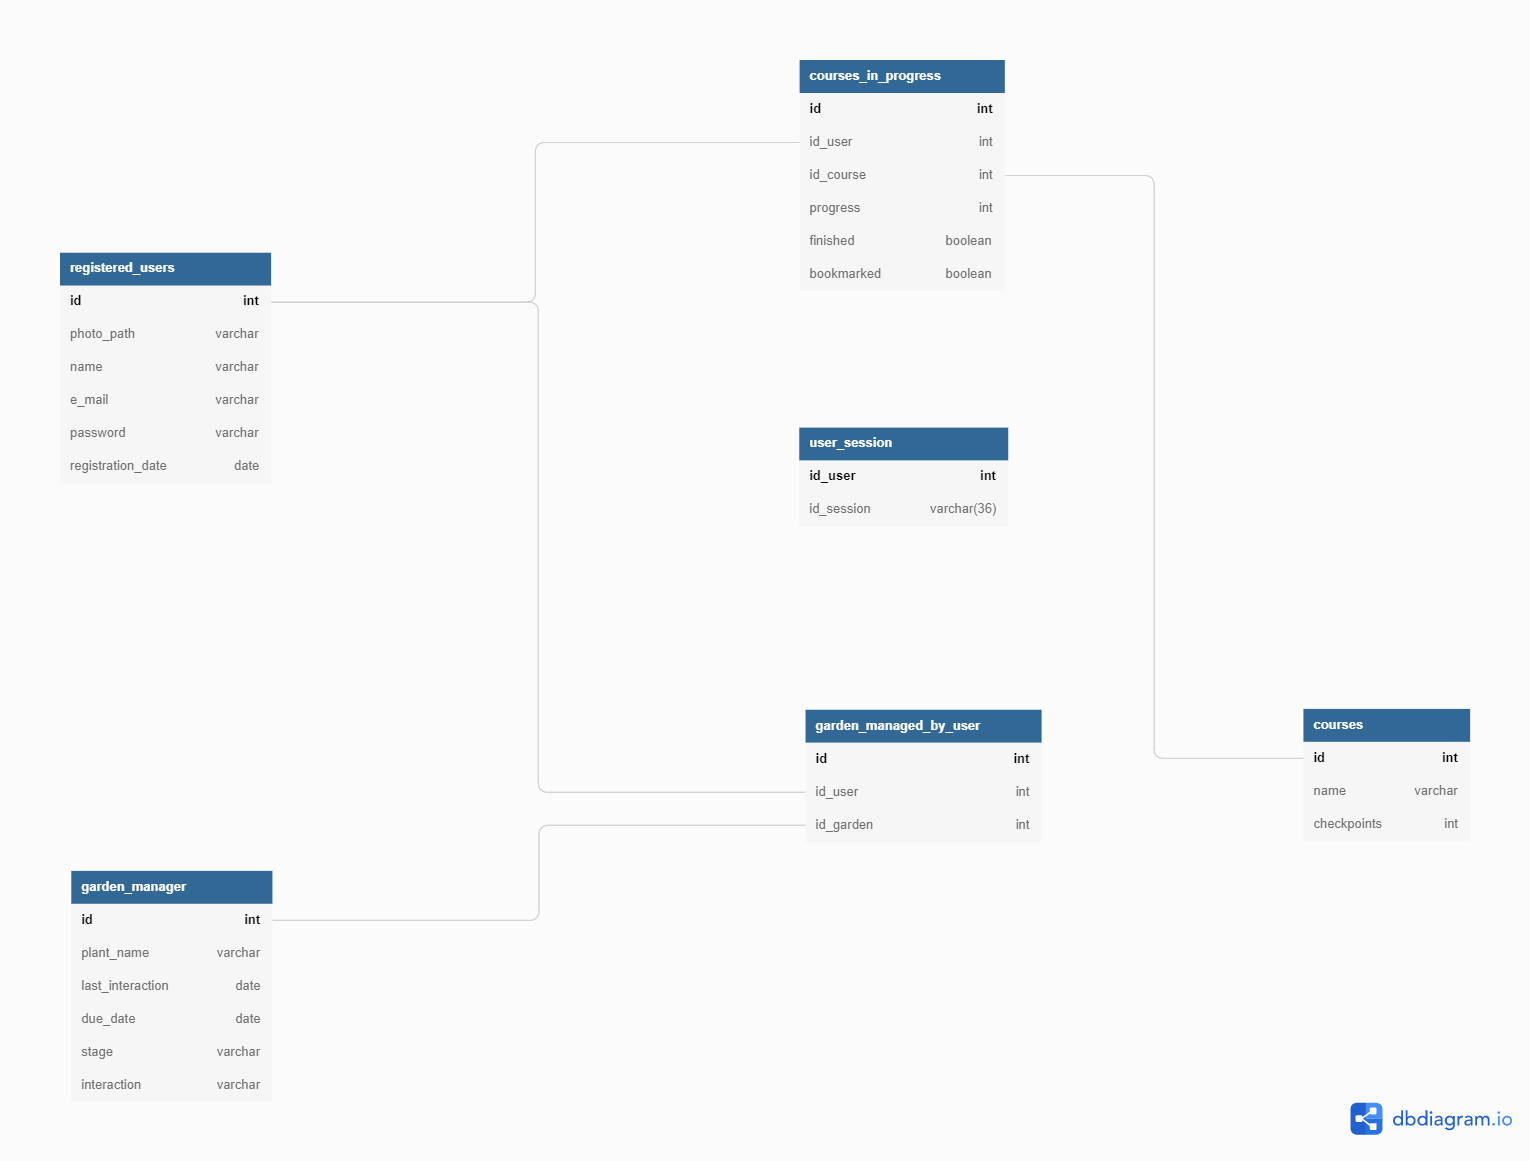
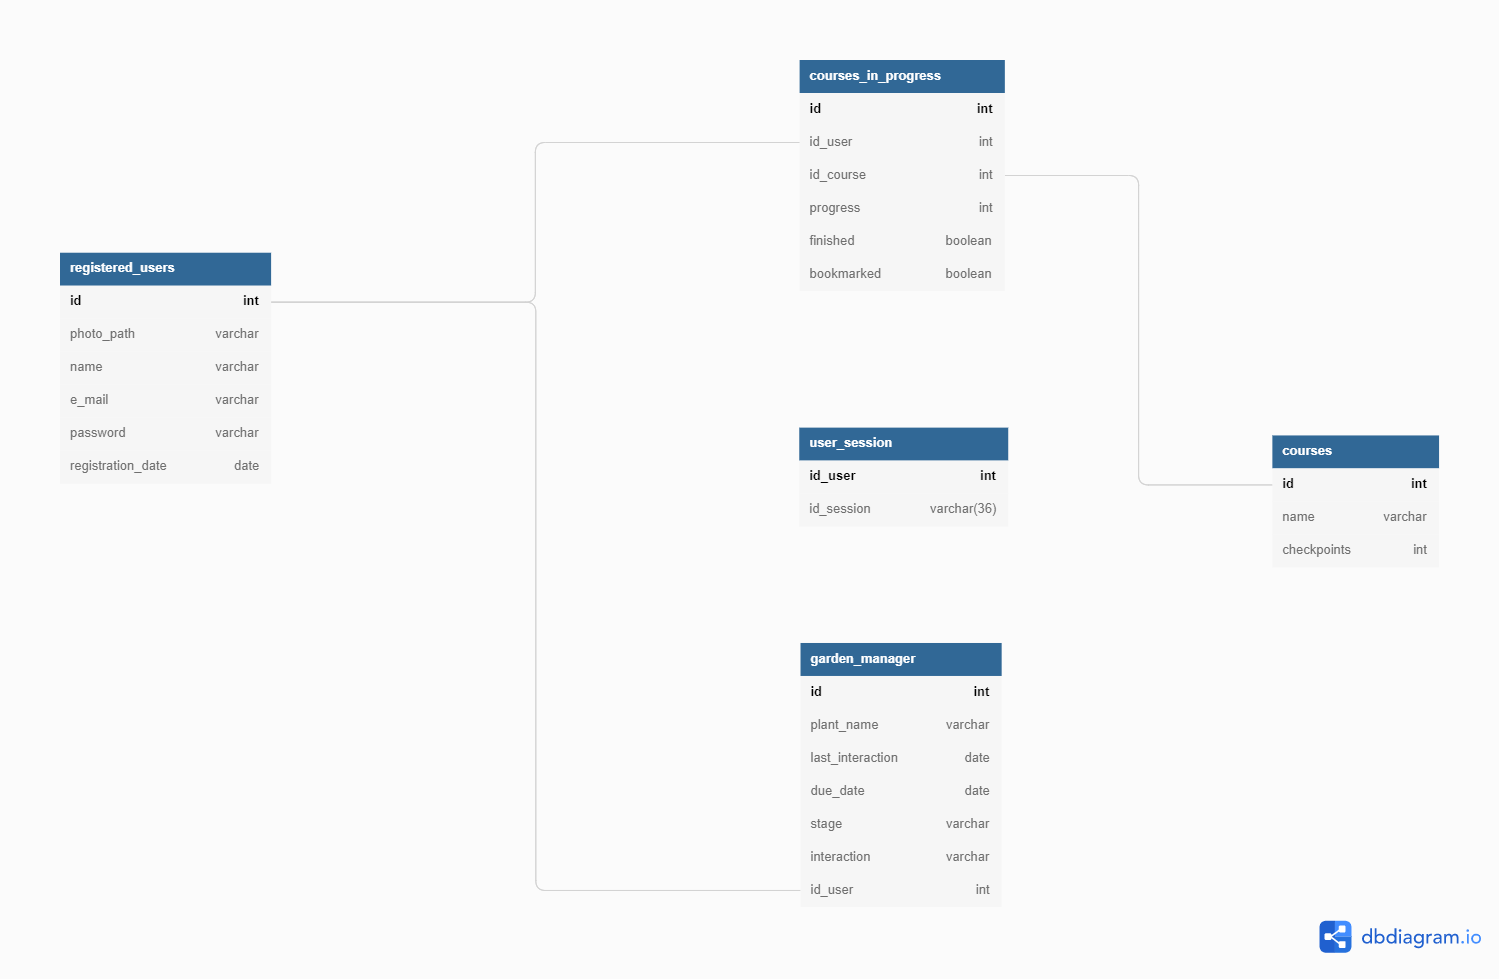
Added for Garden Manager GET and POST requests

diff --git a/public/scripts/garden_manager.js b/public/scripts/garden_manager.js
@@ -1,9 +1,50 @@
 var selectedRow = null;
 
+loadTable();
+
+function loadTable(event) {
+  // event.preventDefault();
+
+  console.log("Loading table");
+
+  let endpoint = "garden";
+  getData(endpoint);
+}
+function getData(endpoint) {
+  let url = `http://localhost:1234/${endpoint}`;
+  let head = new Headers();
+
+  let req = new Request(url, {
+    method: "GET",
+    headers: head,
+  });
+  fetch(req)
+    .then((res) => res.json())
+    .then((content) => {
+      if ("error" in content) {
+        //incerare esuata
+        console.log(content.error);
+      }
+      if ("data" in content) {
+        console.log("Got table: ", content.data);
+        putInTable(content.data);
+      }
+    });
+}
+
+function putInTable(data) {
+  data.forEach(function (line) {
+    insertNewRecord(line);
+  });
+}
 function onFormSubmit() {
   if (validateNullFields() && validateDueDate()) {
     var formData = readFormData();
-    if (selectedRow == null) insertNewRecord(formData);
+    if (selectedRow == null) {
+      insertNewRecord(formData);
+      let endpoint = "garden_manager";
+      sendData(formData, endpoint);
+    }
     else updateRecord(formData);
     resetForm();
   }
@@ -14,7 +55,7 @@ function readFormData() {
   var select_stage = document.getElementById("stage");
   var select_interaction = document.getElementById("interaction");
 
-  formData["name"] = document.getElementById("name").value;
+  formData["plant_name"] = document.getElementById("name").value;
   formData["last_interaction"] =
     document.getElementById("last_interaction").value;
   formData["due_date"] = document.getElementById("due_date").value;
@@ -30,11 +71,12 @@ function insertNewRecord(data) {
     .getElementsByTagName("tbody")[0];
   var newRow = table.insertRow(table.length);
   cell1 = newRow.insertCell(0);
-  cell1.innerHTML = data.name;
+  cell1.innerHTML = data.plant_name;
   cell2 = newRow.insertCell(1);
   cell2.innerHTML = data.last_interaction;
   cell3 = newRow.insertCell(2);
   cell3.innerHTML = data.due_date;
+  console.log(data.due_date);
   cell4 = newRow.insertCell(3);
   cell4.innerHTML = data.stage;
   cell5 = newRow.insertCell(4);
@@ -42,6 +84,29 @@ function insertNewRecord(data) {
   cell6 = newRow.insertCell(5);
   cell6.innerHTML = `<a class="edit-delete" onClick="onEdit(this)">Edit</a>
                        <a class="edit-delete" onClick="onDelete(this)">Delete</a>`;
+}
+
+function sendData(data, endpoint) {
+  let url = `http://localhost:1234/${endpoint}`;
+  let head = new Headers();
+  head.append("Content-Type", "application/json");
+  let req = new Request(url, {
+    method: 'POST',
+    mode: 'cors',
+    headers: head,
+    body: JSON.stringify(data)
+  });
+  fetch(req).then((res) => res.json())
+    .then((content) => {
+      if ("error" in content) {
+        //incerare esuata
+        console.log("Eroare ", content.error);
+      }
+      if ("data" in content) {
+        console.log("Message ", content.data);
+      }
+
+    });
 }
 
 function resetForm() {

diff --git a/server.js b/server.js
@@ -9,6 +9,7 @@ const fileController = require("./controllers/staticFileController");
 const userController = require("./controllers/userController");
 const courseController = require("./controllers/courseController");
 const leaderboardController = require("./controllers/leaderboardController");
+const gardenController = require("./controllers/gardenController");
 
 require("dotenv").config();
 
@@ -71,13 +72,14 @@ const server = http.createServer((req, res) => {
 });
 
 const getRoutes = {
-    "staticFile": fileController.serveFile,
-    "profile": fileController.restrictedFile,
-    "garden_manager": fileController.restrictedFile,
-    "courses": fileController.restrictedFile,
-    "topUsers": leaderboardController.topUsers,
-    "leaderboard": fileController.serveFile,
-    "course_template": courseController.getProgress
+    staticFile: fileController.serveFile,
+    profile: fileController.restrictedFile,
+    garden_manager: fileController.restrictedFile,
+    courses: fileController.restrictedFile,
+    topUsers: leaderboardController.topUsers,
+    leaderboard: fileController.serveFile,
+    course_template: courseController.getProgress,
+    garden: gardenController.getPlants
 }
 
 
@@ -86,6 +88,7 @@ const postRoutes = {
     login: userController.login,
     course_template: courseController.saveForm,
     logout: userController.logout,
+    garden_manager: gardenController.savePlants
 };
 
 server.listen(port, host, () => console.log(`listening on  ${host}:${port}`));

diff --git a/controllers/gardenController.js b/controllers/gardenController.js
@@ -1,0 +1,43 @@
+const gardenModel = require("../models/gardenModel");
+const checkSession = require("../models/sessionModel").checkSession;
+
+
+async function savePlants(data, res) {
+    try {
+        //get the id of the current user
+        let result = await checkSession(data.headers);
+        id = JSON.parse(result);
+        data.payload.id_user = id["user_id"];
+
+        console.log(data.payload);
+
+        await gardenModel.saveGarden(data.payload);
+        console.log("Plant saved.");
+        res.setHeader("Content-type", "application/json");
+        res.end(JSON.stringify({ data: "Plant saved." }));
+    } catch (err) {
+        console.log(err);
+        res.setHeader("Content-type", "application/json");
+        res.end(JSON.stringify({ error: err }));
+    }
+}
+
+async function getPlants(data, res) {
+    try {
+        //get the id of the current user
+        let result = await checkSession(data.headers);
+        id = JSON.parse(result);
+
+        let message = await gardenModel.getGarden(id["user_id"]);
+        console.log("Showing plants from garden.");
+        res.setHeader("Content-type", "application/json");
+        res.end(JSON.stringify({ data: message }));
+    } catch (err) {
+        console.log(err);
+        res.setHeader("Content-type", "application/json");
+        res.end(JSON.stringify({ error: err }));
+    }
+
+}
+
+module.exports = { getPlants, savePlants };

diff --git a/models/gardenModel.js b/models/gardenModel.js
@@ -1,0 +1,33 @@
+const db = require("../database");
+
+async function getGarden(user_id) {
+    return new Promise((resolve, reject) => {
+        db.pool.query("select plant_name, date_format(last_interaction, '%Y-%m-%d') as last_interaction, date_format(due_date, '%Y-%m-%d') as due_date, stage, interaction from garden_manager where id_user = ?", [user_id], (err, data) => {
+            if (err) {
+                console.log(err);
+                reject(err);
+            }
+            console.log("Plants: " + JSON.stringify(data));
+
+            resolve(data);
+        })
+    });
+}
+
+async function saveGarden(info) {
+    // Info contains: plant_name, last_interaction, due_date, stage,
+    // interaction, id_user
+    return new Promise((resolve, reject) => {
+        db.pool.query("insert into garden_manager(plant_name, last_interaction, due_date, stage, interaction, id_user) values (?,date_format(?, '%Y-%m-%d'),date_format(?, '%Y-%m-%d'),?,?,?)", [info.plant_name, info.last_interaction, info.due_date, info.stage, info.interaction, info.id_user], (err, data) => {
+            if (err) {
+                console.log(err);
+                reject(err);
+            }
+            console.log(JSON.stringify(data));
+            resolve(data);
+        })
+    });
+
+}
+
+module.exports = { getGarden, saveGarden };

diff --git a/public/gardenmanager.html b/public/gardenmanager.html
@@ -50,12 +50,19 @@
                   type="date"
                   name="last_interaction"
                   id="last_interaction"
+                  placeholder="yyyy-mm-dd"
                   required
                 />
               </div>
               <div>
                 <label id="due-date-label">Due date</label>
-                <input type="date" name="due_date" id="due_date" required />
+                <input
+                  type="date"
+                  name="due_date"
+                  id="due_date"
+                  placeholder="yyyy-mm-dd"
+                  required
+                />
               </div>
               <div>
                 <label id="stage-label">Stage</label>

diff --git a/controllers/leaderboardController.js b/controllers/leaderboardController.js
@@ -3,7 +3,7 @@ const leaderboardModel = require("../models/leaderboardModel");
 async function topUsers(data, res) {
     try {
         let msg = await leaderboardModel.showTopUsers(data.payload);
-        console.log("Rezultat returnar " + JSON.stringify(msg));
+        console.log("Rezultat returnat " + JSON.stringify(msg));
         res.setHeader("Content-type", "application/json");
         res.end(JSON.stringify({ data: msg }));
     } catch (err) {

diff --git a/controllers/courseController.js b/controllers/courseController.js
@@ -6,7 +6,7 @@ async function saveForm(data, res) {
     //get the id of the current user
     let result = await checkSession(data.headers);
     id = JSON.parse(result);
-    data.payload.user_id = id["user_id"];
+    data.payload.id_user = id["user_id"];
 
     console.log(
       "Form info: user: " +
